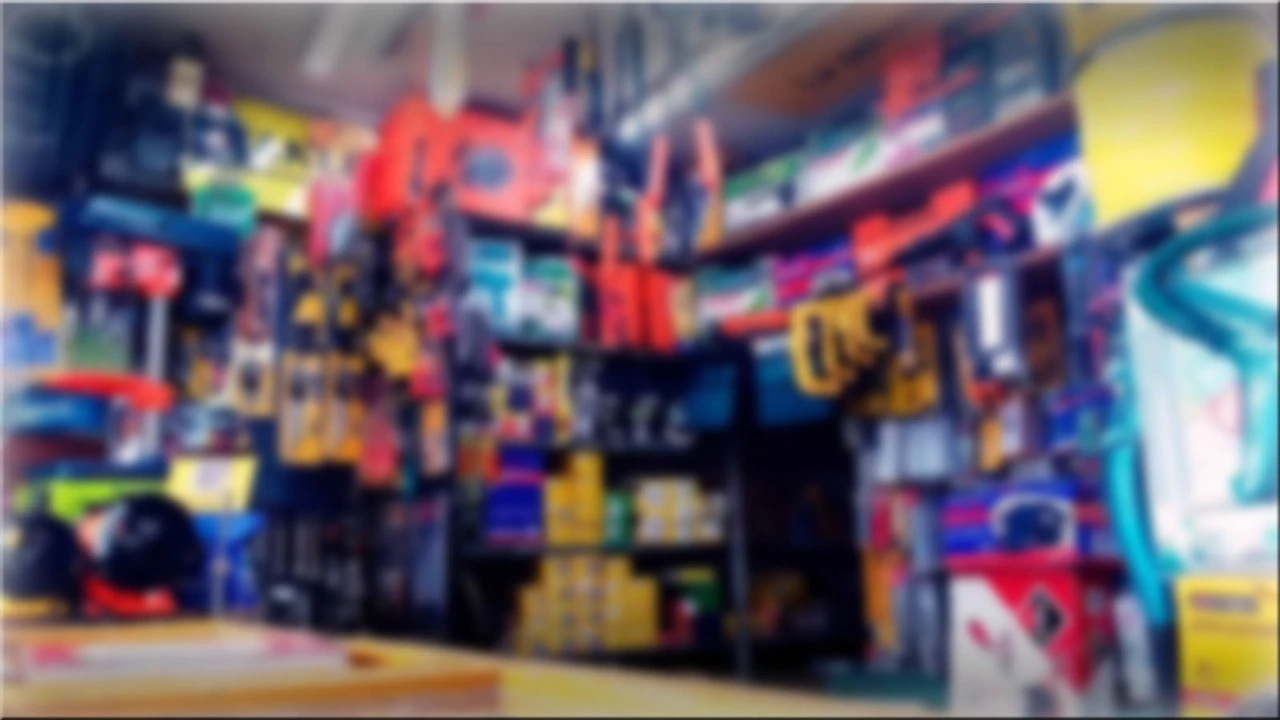
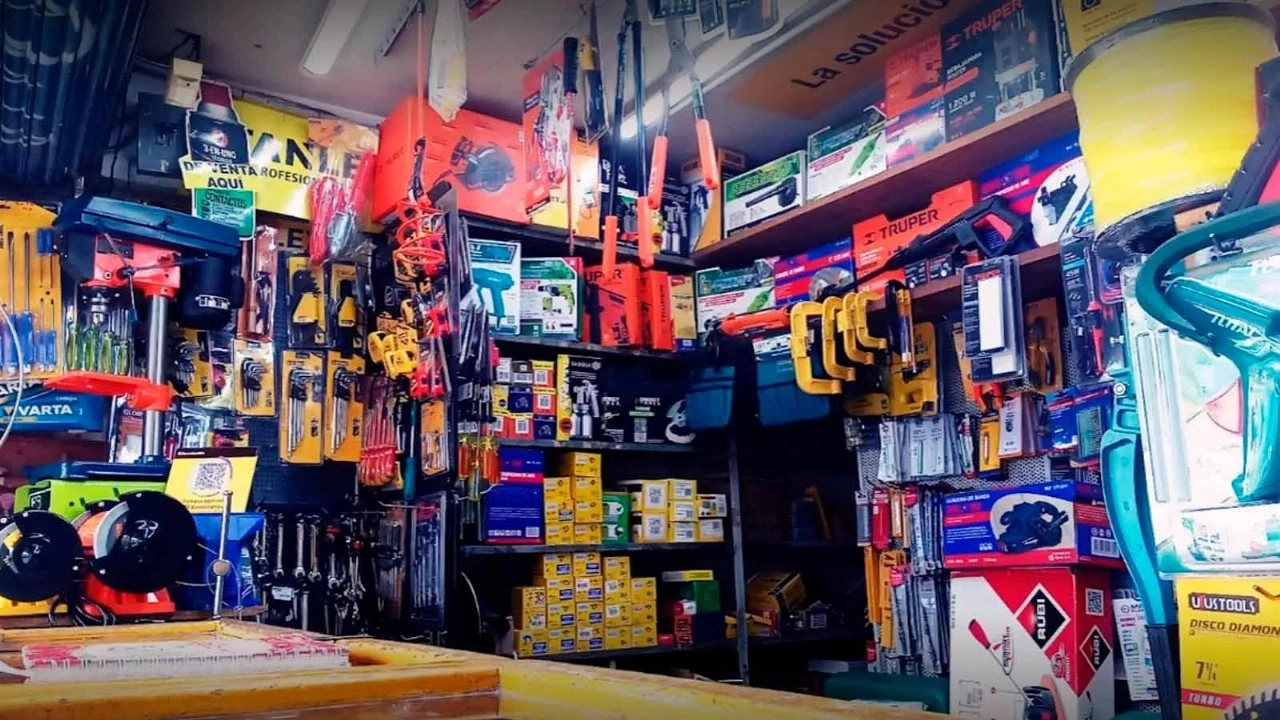
Cambiando las imagenes de los fondos_vistas

diff --git a/frontend/src/assets/styles/productos.css b/frontend/src/assets/styles/productos.css
@@ -1,5 +1,5 @@
 body {
-    background: url('/images/productosfondo.webp') no-repeat center center/cover;
+    background: url('/images/fondoproducto.webp') no-repeat center center/cover;
     background-size: cover;
     min-height: 100vh;
     display: flex;

diff --git a/frontend/src/assets/styles/ventas.css b/frontend/src/assets/styles/ventas.css
@@ -1,5 +1,5 @@
 body {
-    background: url('/images/productosfondo.webp') no-repeat center center/cover;
+    background: url('/images/fondoventa.webp') no-repeat center center/cover;
     background-size: cover;
     min-height: 100vh;
     display: flex;

diff --git a/frontend/src/assets/styles/proveedores.css b/frontend/src/assets/styles/proveedores.css
@@ -1,5 +1,5 @@
 body {
-  background: url(/images/dash.webp) no-repeat center center/cover;
+  background: url(/images/fondoproveedor.webp) no-repeat center center/cover;
   background-size: cover;
   min-height: 100vh;
   display: flex;
